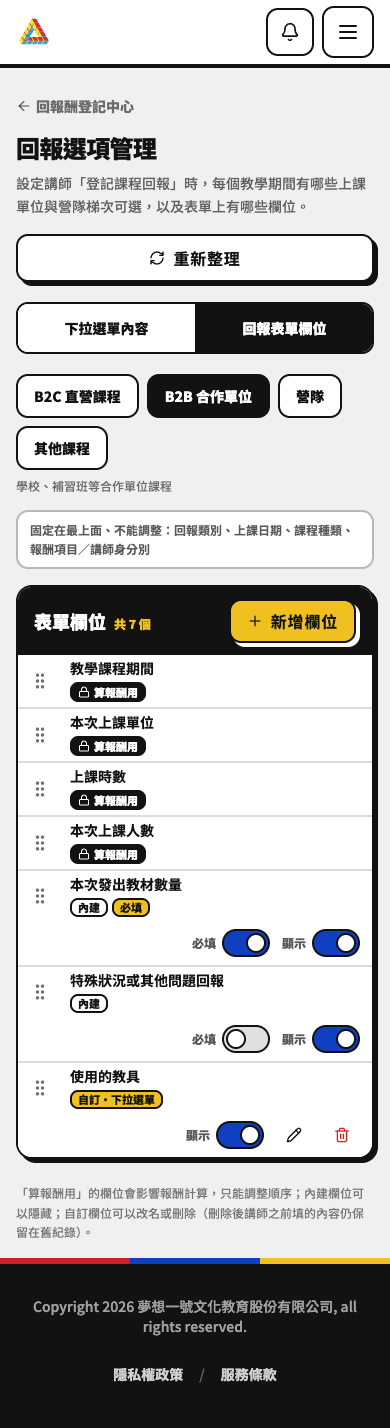
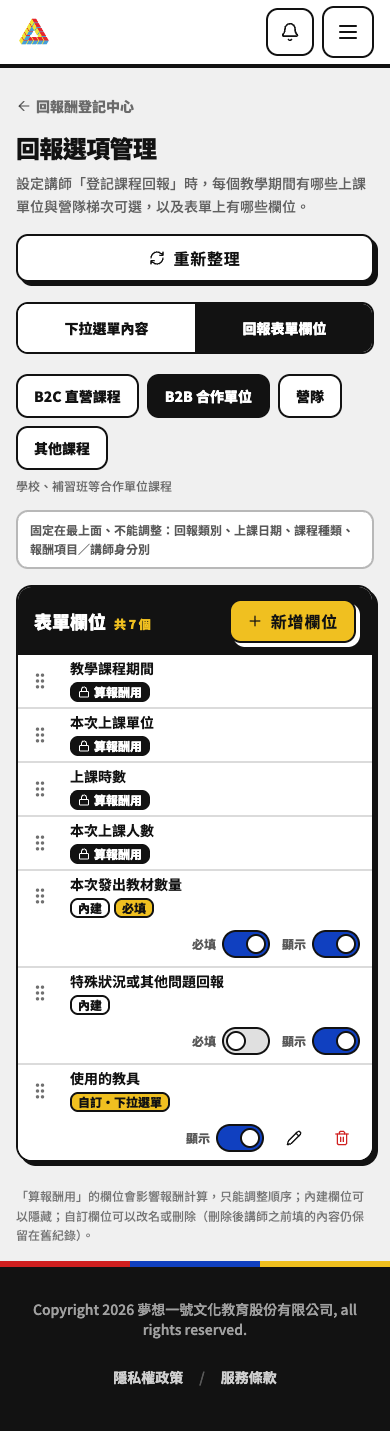
fix(salary): review follow-ups — copy units only, reload fields on stale form, period label fallback, PostgREST reload

diff --git a/培訓web/src/pages/MySalaryNew.jsx b/培訓web/src/pages/MySalaryNew.jsx
@@ -1,4 +1,4 @@
-import { useState, useEffect, useMemo } from 'react';
+import { useState, useEffect, useMemo, useCallback } from 'react';
 import { useNavigate, Link } from 'react-router-dom';
 import { supabase } from '../lib/supabaseClient';
 import { useAuth } from '../context/AuthContext';
@@ -116,22 +116,24 @@ const MySalaryNew = () => {
     }, [user]);
 
     // 回報表單欄位設定（顯示哪些欄位、順序、自訂欄位）；讀取失敗就用預設欄位，不擋回報
+    const fetchFieldRows = useCallback(async () => {
+        try {
+            const { data, error: fieldsError } = await supabase
+                .from('salary_report_fields')
+                .select('layout, field_key, source, label, field_type, options, help_text, is_required, is_visible, sort_order')
+                .order('sort_order', { ascending: true });
+            return fieldsError ? [] : (data || []);
+        } catch {
+            return [];
+        }
+    }, []);
+
     useEffect(() => {
         if (!user) return undefined;
         let active = true;
-        (async () => {
-            try {
-                const { data, error: fieldsError } = await supabase
-                    .from('salary_report_fields')
-                    .select('layout, field_key, source, label, field_type, options, help_text, is_required, is_visible, sort_order')
-                    .order('sort_order', { ascending: true });
-                if (active) setFieldRows(fieldsError ? [] : (data || []));
-            } catch {
-                if (active) setFieldRows([]);
-            }
-        })();
+        fetchFieldRows().then(rows => { if (active) setFieldRows(rows); });
         return () => { active = false; };
-    }, [user]);
+    }, [user, fetchFieldRows]);
 
     const layout = reportLayoutFor(form.course_type);
     const layoutFields = useMemo(() => visibleFieldsOfLayout(fieldRows, layout), [fieldRows, layout]);
@@ -231,6 +233,12 @@ const MySalaryNew = () => {
             if (submitError) throw submitError;
             navigate('/my/salary', { replace: true, state: { salaryReportSubmitted: true } });
         } catch (submitError) {
+            // 填寫途中管理員改了表單欄位：直接重新載入欄位設定，已填的內容保留，講師確認後再送一次
+            if (String(submitError?.message || '').includes('欄位已更新')) {
+                setFieldRows(await fetchFieldRows());
+                setError('管理員剛更新了回報表單的欄位，已重新載入；已填的內容都還在，請確認後再按一次送出。');
+                return;
+            }
             setError(salaryErrorMessage(submitError, '回報送出失敗，請稍後再試。'));
         } finally {
             setSubmitting(false);

diff --git a/培訓web/src/pages/admin/SalaryRegister.jsx b/培訓web/src/pages/admin/SalaryRegister.jsx
@@ -57,12 +57,12 @@ const countSessions = (apply = (query) => query) => apply(
     supabase.from('class_sessions').select('id', { count: 'exact', head: true }),
 );
 
-// 教學期間代碼 → 名稱（期間可在「回報選項管理」新增，名稱以資料庫為準）
-const PeriodLabelsContext = createContext({});
+// 教學期間代碼 → 名稱（期間可在「回報選項管理」新增，名稱以資料庫為準）；null＝還沒讀到或讀取失敗
+const PeriodLabelsContext = createContext(null);
 
 const SalaryRegister = () => {
     const { profile } = useAuth();
-    const [periodLabels, setPeriodLabels] = useState({});
+    const [periodLabels, setPeriodLabels] = useState(null);
     const [sessions, setSessions] = useState([]);
     const [instructors, setInstructors] = useState([]);
     const [overview, setOverview] = useState(null);  // 全庫：總筆數、待處理、待核准、異常、月份選項
@@ -221,7 +221,12 @@ const SalaryRegister = () => {
                 .from('salary_report_options')
                 .select('value, label')
                 .eq('kind', 'term_period');
-            if (active && !error) setPeriodLabels(Object.fromEntries((data || []).map(row => [row.value, row.label])));
+            if (!active) return;
+            if (error) {
+                console.warn('教學期間名稱讀取失敗，先以期間代碼顯示', error);
+                return;
+            }
+            setPeriodLabels(Object.fromEntries((data || []).map(row => [row.value, row.label])));
         })();
         return () => { active = false; };
     }, []);
@@ -444,7 +449,12 @@ const recordState = (session) => {
 };
 
 // 對齊 Google 課後回報表單的欄位：期間、單位／梯次、教材、交通補助（只顯示，不影響核准）
-const periodLabelOf = (periodLabels, value) => periodLabels[value] || TERM_PERIOD_LABELS[value] || '已停用的期間';
+// 名稱還沒讀到（或讀取失敗）時先顯示內建名稱或代碼，讀到後才判斷「已停用」（講師端讀不到停用期間）
+const periodLabelOf = (periodLabels, value) => {
+    if (periodLabels?.[value]) return periodLabels[value];
+    if (!periodLabels) return TERM_PERIOD_LABELS[value] || value;
+    return TERM_PERIOD_LABELS[value] || `已停用的期間（${value}）`;
+};
 
 const reportExtraItems = (session, periodLabels) => {
     const items = [];

diff --git a/培訓web/src/lib/salaryReportOptions.test.js b/培訓web/src/lib/salaryReportOptions.test.js
@@ -111,14 +111,15 @@ test('newPeriodValue：term_ 開頭加 10 碼英數，可注入亂數', () => {
     assert.notEqual(newPeriodValue(), newPeriodValue());
 });
 
-test('planCopyItems：單位與梯次照抄名稱、順序、啟用狀態，掛到新期間，不帶 id', () => {
+test('planCopyItems：預設只複製上課單位（照抄名稱、順序、啟用狀態，掛到新期間，不帶 id）；營隊梯次不複製', () => {
     const plan = planCopyItems(seed(), 't1', 'NEW');
     assert.deepEqual(plan, [
         { kind: 'partner_unit', value: '【新竹】康乃薾', label: '【新竹】康乃薾', sort_order: 10, is_active: true, period_id: 'NEW' },
         { kind: 'partner_unit', value: '【週二】再興', label: '【週二】再興', sort_order: 20, is_active: false, period_id: 'NEW' },
-        { kind: 'camp_batch', value: '【臺北A】中山', label: '【臺北A】中山', sort_order: 10, is_active: true, period_id: 'NEW' },
     ]);
     assert.ok(plan.every((row) => !('id' in row)));
+    // 明確指定才連梯次一起複製
+    assert.equal(planCopyItems(seed(), 't1', 'NEW', ['partner_unit', 'camp_batch']).filter((row) => row.kind === 'camp_batch').length, 1);
 });
 
 test('planCopyItems：來源空清單、缺少來源或新期間都回傳空陣列', () => {

diff --git a/培訓web/src/lib/salaryReportOptions.js b/培訓web/src/lib/salaryReportOptions.js
@@ -79,10 +79,13 @@ export const newPeriodValue = (random = Math.random) => {
     return `term_${suffix}`;
 };
 
-// 新增期間時「從某期複製清單」：回傳要 insert 的列（名稱、順序、啟用狀態照抄，掛到新期間）
-export const planCopyItems = (options, sourcePeriodId, newPeriodId) => {
+// 新增期間時「從某期複製清單」：回傳要 insert 的列（名稱、順序、啟用狀態照抄，掛到新期間）。
+// 預設只複製上課單位：營隊梯次帶日期（7/1~7/3…），每期不同；複製過去又沒停用舊期間時，
+// 講師的梯次下拉會出現兩組同名梯次，容易選到錯的期間。
+export const COPY_KINDS = ['partner_unit'];
+export const planCopyItems = (options, sourcePeriodId, newPeriodId, kinds = COPY_KINDS) => {
     if (!sourcePeriodId || !newPeriodId) return [];
-    return PERIOD_SECTIONS.flatMap(({ kind }) => itemsOfPeriod(options, sourcePeriodId, kind).map((item) => ({
+    return PERIOD_SECTIONS.filter(({ kind }) => kinds.includes(kind)).flatMap(({ kind }) => itemsOfPeriod(options, sourcePeriodId, kind).map((item) => ({
         kind,
         value: item.value,
         label: item.label,

diff --git a/培訓web/src/pages/admin/report-options/OptionSection.jsx b/培訓web/src/pages/admin/report-options/OptionSection.jsx
@@ -108,7 +108,7 @@ const OptionSection = ({ section, items, busy, onAdd, onRename, onToggle, onReor
                                     {inactive && <span className="sr-only">（已停用）</span>}
                                 </p>
                                 {inactive && (
-                                    <span aria-hidden="true" className="hidden sm:inline-block shrink-0 rounded-lg bg-bauhaus-black px-2 py-0.5 text-[11px] font-black text-white">已停用</span>
+                                    <span aria-hidden="true" className="hidden sm:inline-block shrink-0 rounded-lg bg-bauhaus-black px-2 py-0.5 text-xs font-black text-white">已停用</span>
                                 )}
                                 <button
                                     type="button"

diff --git a/培訓web/src/pages/admin/report-options/NewPeriodPanel.jsx b/培訓web/src/pages/admin/report-options/NewPeriodPanel.jsx
@@ -49,7 +49,7 @@ const NewPeriodPanel = ({ periods, options, defaultSourceId, busy, onCreate, onC
                 </select>
             </label>
             <p className="text-xs font-medium leading-relaxed text-bauhaus-black/60">
-                複製會把那一期的上課單位與營隊梯次（含啟用狀態與順序）原樣帶到新期間，之後各改各的，互不影響。
+                複製會把那一期的上課單位（含啟用狀態與順序）原樣帶到新期間，之後各改各的，互不影響。營隊梯次每期日期不同，不會複製，請在新期間另外新增。
             </p>
             <div className="flex flex-wrap gap-2">
                 <button type="submit" disabled={busy} className="bh-btn bh-btn-blue px-5 min-h-[44px]">

diff --git a/培訓web/src/pages/admin/report-options/FieldRow.jsx b/培訓web/src/pages/admin/report-options/FieldRow.jsx
@@ -4,7 +4,7 @@ import { ToggleSwitch } from './ui';
 
 const Tag = ({ children, tone = 'plain' }) => (
     <span
-        className={`inline-flex items-center gap-1 rounded-lg border-2 border-bauhaus-black px-1.5 py-0.5 text-[11px] font-black leading-none ${
+        className={`inline-flex items-center gap-1 rounded-lg border-2 border-bauhaus-black px-1.5 py-0.5 text-xs font-black leading-none ${
             tone === 'dark' ? 'bg-bauhaus-black text-white' : tone === 'yellow' ? 'bg-bauhaus-yellow text-bauhaus-black' : 'bg-white text-bauhaus-black'
         }`}
     >
